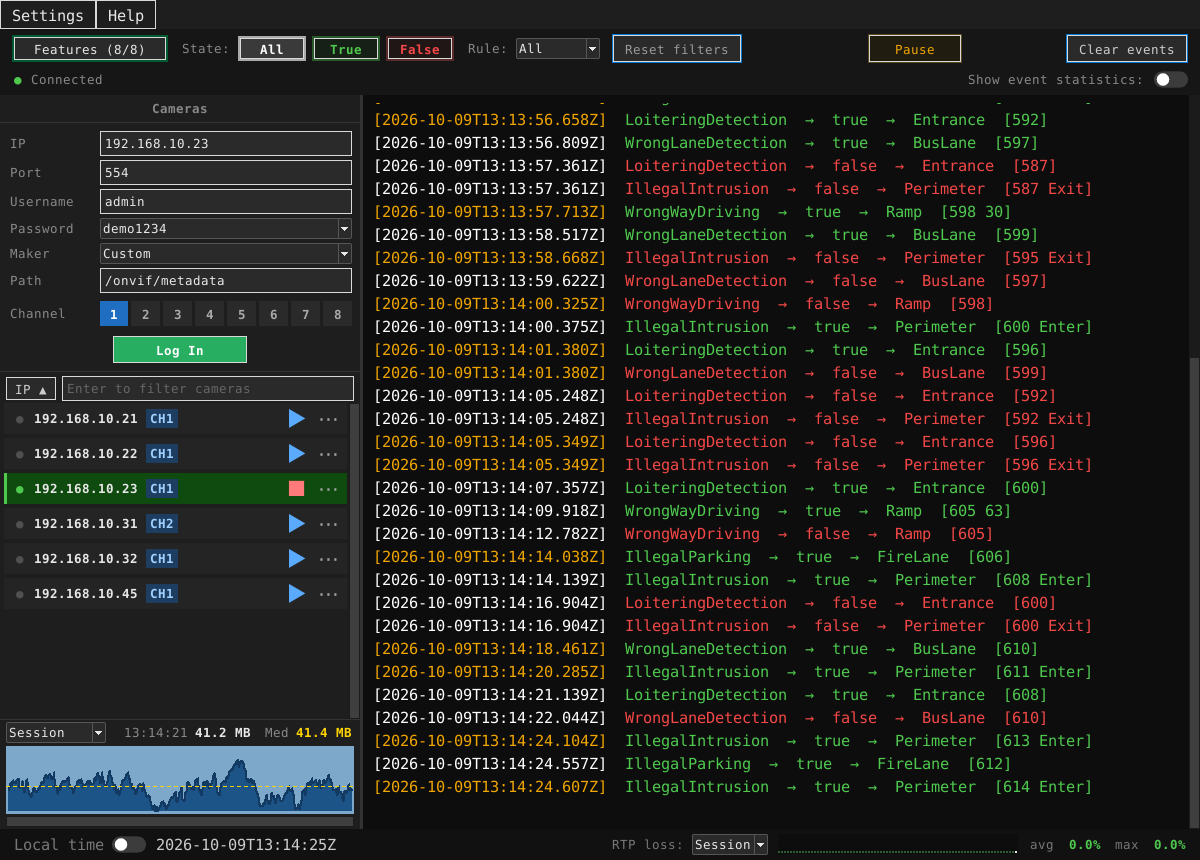
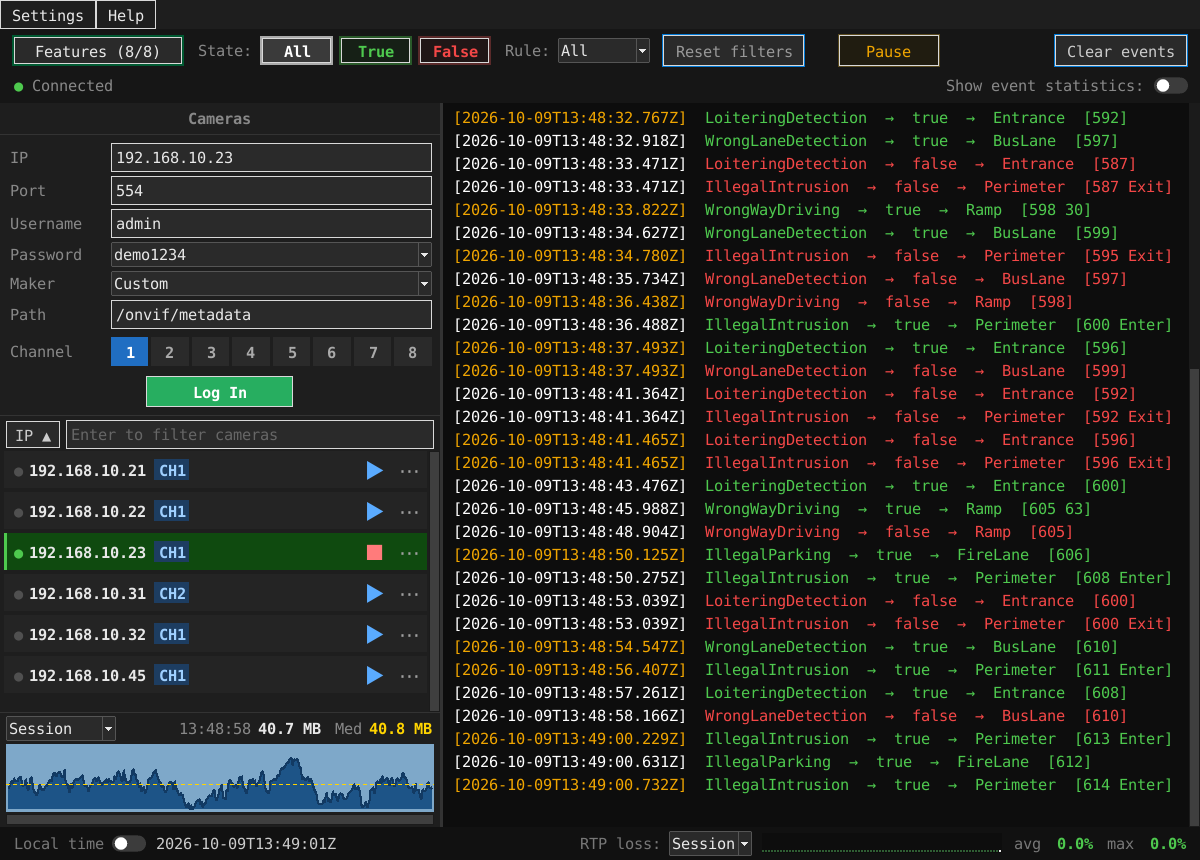
Screenshots and tutorial at the app's one text size
Claude-Session: https://claude.ai/code/session_0151LfiytW9KEK13s5v6f8Aa

diff --git a/index.html b/index.html
@@ -345,7 +345,7 @@ const DEMO_VIDEO = "media/demo.mp4";
 const DEMO_POSTER = "media/demo.jpg";
 // The screenshots' revision: tools/demo_screenshots.py sets it when it saves new
 // ones, so browsers and the Pages CDN fetch them again instead of a cached copy.
-const MEDIA_REV = "202610091315";
+const MEDIA_REV = "202610091349";
 const SCREENSHOTS = [
   ["media/screenshot-1.png", "Main window after 30 hours: cameras, live event log, memory and RTP loss"],
   ["media/screenshot-2.png", "Choose the camera's maker: the path of its metadata stream is filled in"],
